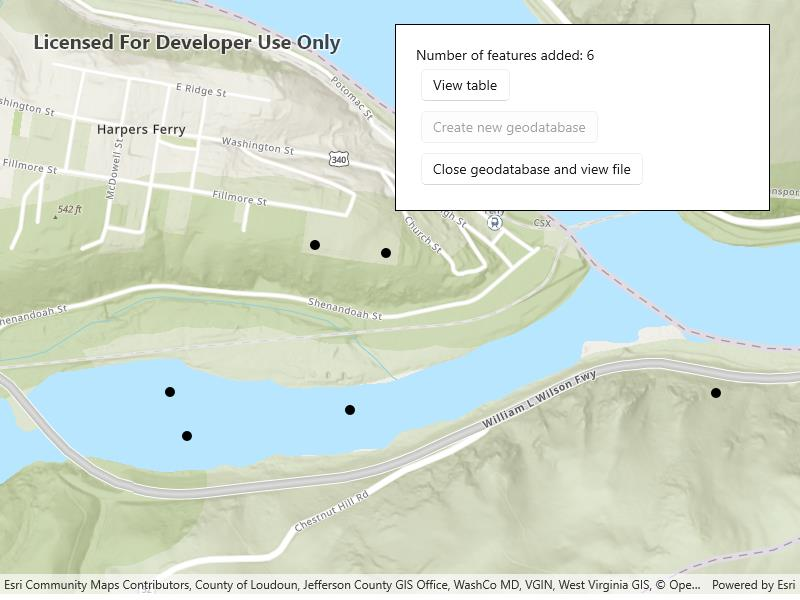
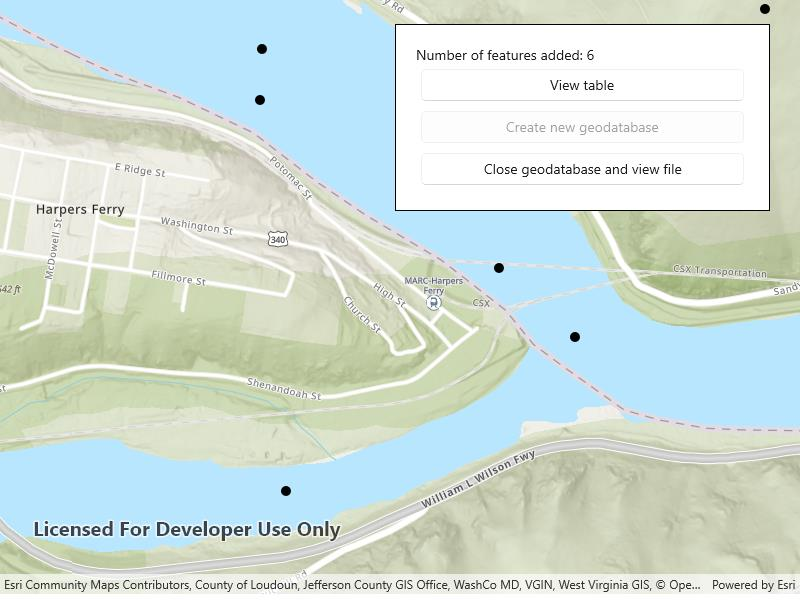
WinUI button improvement

diff --git a/src/WinUI/ArcGISRuntime.WinUI.Viewer/Samples/Data/CreateMobileGeodatabase/CreateMobileGeodatabase.xaml b/src/WinUI/ArcGISRuntime.WinUI.Viewer/Samples/Data/CreateMobileGeodatabase/CreateMobileGeodatabase.xaml
@@ -10,15 +10,18 @@
             <StackPanel>
                 <TextBlock x:Name="FeaturesLabel" Text="Number of features added: " />
                 <Button Margin="5"
+                        HorizontalAlignment="Stretch"
                         Click="ViewTable"
                         Content="View table" />
                 <Button x:Name="CreateGdbButton"
                         Margin="5"
+                        HorizontalAlignment="Stretch"
                         Click="CreateGdbButton_Click"
                         Content="Create new geodatabase"
                         IsEnabled="False" />
                 <Button x:Name="CloseGdbButton"
                         Margin="5"
+                        HorizontalAlignment="Stretch"
                         Click="CloseGeodatabaseClick"
                         Content="Close geodatabase and view file" />
             </StackPanel>
